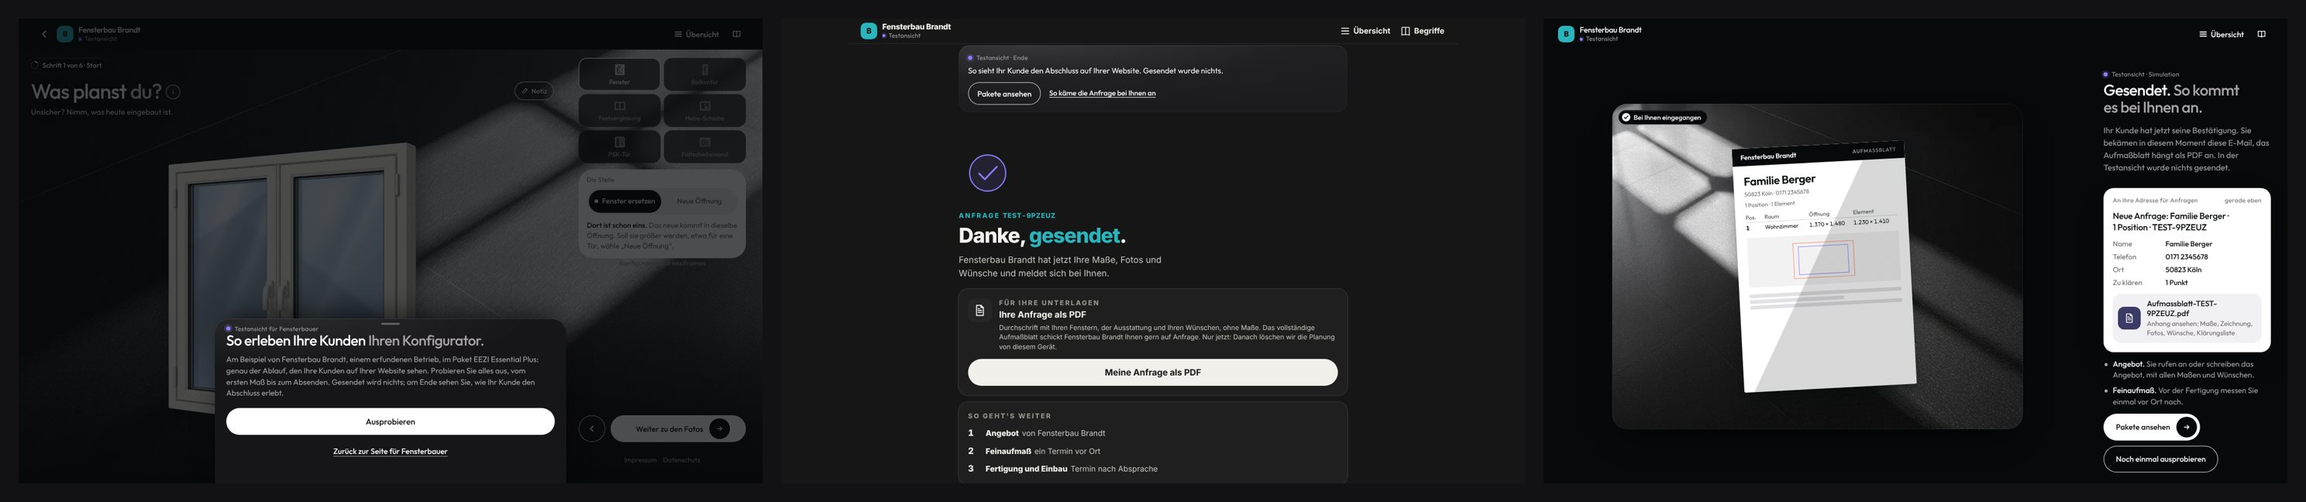
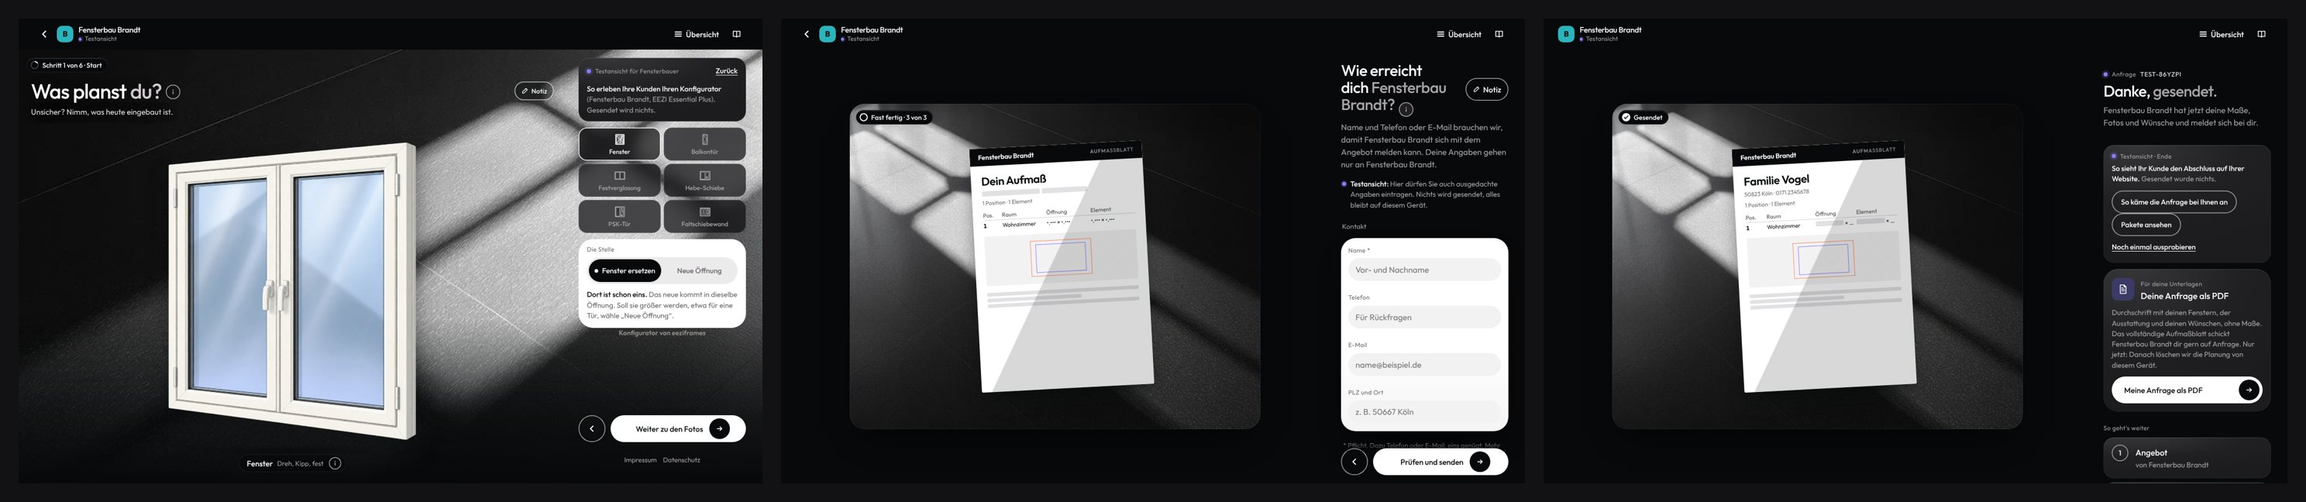
Kontakt und Prüfen der Instanz im neuen Design, Muss-Punkte des Gremiums
- Kontakt auf einer Instanz (instAnfrage3) im Rahmen der Abschluss-Folien:
  Blatt mit dem Namen des Betriebs, Pflichtfelder, Fehler am Feld (Inhaber:
  „Nimm das neue Design“); „Prüfen und senden“ geht auch auf Instanzen durch
  abRahmen
- Bestätigung: „Fertig“ am Ende statt angeheftet, Nummer einmal, Maße als
  ruhige Balken, „Jetzt von diesem Gerät löschen“ mit „… bleibt bestehen“,
  keine Station schon erledigt
- Testansicht: Infobereich kurz (Etikett mit „Zurück“, ein Satz), Anrede „du“
  wie die Folien, im Ende-Kasten zuerst die Ansicht des Betriebs
- Protokoll und Gremium unter docs/profis/, Regel „Ein Ablauf, ein Look“

Claude-Session: https://claude.ai/code/session_0184P5fGdniWcDaYecSm6W1G

diff --git a/web/assets/app.js b/web/assets/app.js
@@ -2442,14 +2442,15 @@ const STORE = 'aufmass.v1';
 /* Testansicht für Fensterbauer (/app/?ausprobieren[=<paket>]: „Selbst ausprobieren“ auf der Seite für Fensterbauer, „Fenster planen“ in
    den Paket-Beispielen): der Konfigurator so, wie ihn die Kunden eines Betriebs mit diesem Paket auf dessen Website erleben, am Beispiel
    des erfundenen Betriebs Fensterbau Brandt (wie die Beispiele der Seite), ganz im Browser. Merkmale aus pakete.js (ohne Angabe Plus),
-   Firmenfarbe Aquatürkis der Brandt-Palette, wo das Paket eine Farbe hat. Kein Aufruf an den Server der Instanzen (kein Code vom Server,
+   Firmenfarbe Aquatürkis der Brandt-Palette, wo das Paket eine Farbe hat; Anrede „du“ wie in den Folien (Gremium 28.10.2026: du und Sie
+   gemischt zeigt kein Fensterbauer seinem Kunden). Kein Aufruf an den Server der Instanzen (kein Code vom Server,
    kein Zwischenstand, keine Fotos hinauf), Senden ist eine Simulation (probeSenden). Auf einer echten Instanz (KONFIG.instanz vom
    Server) gibt es sie nicht. */
 const PROBE = (() => { try { return new URLSearchParams(location.search).has('ausprobieren'); } catch (e) { return false; } })() && !(window.KONFIG && window.KONFIG.instanz);
 const PROBE_PAKET = (() => { if (!PROBE) return ''; let p = ''; try { p = String(new URLSearchParams(location.search).get('ausprobieren') || '').toLowerCase(); } catch (e) { p = ''; } const P = window.Pakete; return P && P.gueltig(p) ? p : 'plus'; })();
 if (PROBE) {
   const P = window.Pakete, m = P ? P.oeffentlich(P.merkmale(PROBE_PAKET)) : { kopieKunde: true }, farbe = m.farbe ? '#2ab4bd' : '';
-  (window.KONFIG = window.KONFIG || {}).instanz = { id: 'muster01', v: 1, host: location.host, name: 'Fensterbau Brandt', du: false, status: 'aktiv', vorschau: false, demo: true, probe: true, m: m,
+  (window.KONFIG = window.KONFIG || {}).instanz = { id: 'muster01', v: 1, host: location.host, name: 'Fensterbau Brandt', du: true, status: 'aktiv', vorschau: false, demo: true, probe: true, m: m,
     auftritt: { logo: '', grund: 'dunkel', col: farbe, gruss: { sie: '', du: '' }, ap: 'Petra Brandt', foto: '', tel: '', mail: '', web: '', ort: '', tiefe: '', std: '' },
     start: { kicker: '', ueberschrift: '', text: '', bilder: [] }, farbe: farbe, akzent: farbe, kontakt: { tel: '', mail: '' }, logo: '', grenzen: { fenster: 50 } };
   /* Firmenfarbe wie auf der Seite einer Instanz (der Server setzt dort --accent im Kopf, functions/instanz/seiten.js) */
@@ -3926,8 +3927,8 @@ function anfrage2Dna() {
   return { html: lgKopf(['back', 'Zurück: Haus']) + dnaTisch(abZeitBuehne(pr, anfrageHead(2, lk)), frage + karte + abFuss('Zurück: Haus', weiter[0], weiter[1], weiter[2])), back: ['Haus', 'anfrage'], dna: true, cls: 'dna ab dt', voll: true };
 }
 /* Kontakt: das Aufmaßblatt als Objekt im Fensterlicht; was getippt wird, steht sofort oben auf dem Blatt (abLive), Maße als Punkte */
-function abPapier(offen, schloss, betrieb) { // betrieb: Name im Kopfband statt eeziframes (Testansicht: das Blatt, wie es beim Betrieb ankommt)
-  const pr = S.proj, n = S.windows.length, el = S.windows.reduce((a, x) => a + (num(x.anzahl) || 1), 0), pkt = (v) => (!v ? '•.•••' : offen ? thousand(v) : thousand(v).replace(/\d/g, '•'));
+function abPapier(offen, schloss, betrieb, balken) { // betrieb: Name im Kopfband statt eeziframes; balken: Maße als ruhige Balken (Bestätigung, Durchschrift ohne Maße)
+  const pr = S.proj, n = S.windows.length, el = S.windows.reduce((a, x) => a + (num(x.anzahl) || 1), 0), pkt = (v) => (balken ? '<i class="ab-leer" style="--b: 72%"></i>' : !v ? '•.•••' : offen ? thousand(v) : thousand(v).replace(/\d/g, '•'));
   const kontakt = [pr.ort, pr.tel, pr.mail].map((t) => String(t || '').trim()).filter(Boolean);
   return '<div class="ab-papier" aria-hidden="true"><div class="ab-papier-band">' + (betrieb ? '<span class="ab-papier-betrieb">' + esc(betrieb) + '</span>' : LOGO(10) + '<span class="ab-wm" translate="no"><b>eezi</b>frames</span>') + '<span class="ab-papier-art">Aufmaßblatt</span></div><div class="ab-papier-in">' +
     '<p class="ab-papier-h" data-p="name">' + esc(String(pr.name || '').trim() || 'Dein Aufmaß') + '</p>' +
@@ -4169,7 +4170,7 @@ function abSymBuehne(chip, extra) {
 const abBetrag = () => { const p = PREIS(); return p > 0 ? '<div class="ab-betrag" aria-hidden="true"><b>' + euro(p).replace(/\s*€$/, '') + '</b><small>€</small><span>einmalig' + (MWST() ? ', inkl. MwSt.' : '') + '</span></div>' : ''; };
 const abEtikett = (klein, wert) => '<div class="ab-etikett" aria-hidden="true"><span class="ab-etikett-punkt"></span><span><small>' + esc(klein) + '</small><b>' + esc(wert) + '</b></span></div>';
 function abRahmen(view, buehne) {
-  if (!view || view.dna || INST) return view;
+  if (!view || view.dna) return view; // seit 28.10.2026 auch auf Instanzen (Prüfen und senden; die Bestätigung ist schon eine Folie)
   const b = view.bar, back = view.back, zur = back ? 'Zurück: ' + back[0] : '';
   const pille = b ? '<button type="button" class="dna-pille lg-weiter btn ' + (b.ghost ? 'ghost dna-pille--leise' : 'primary') + '" data-act="' + b.act + '"' + (b.v ? ' data-v="' + b.v + '"' : '') + (b.dis ? ' disabled' : '') + '>' + b.label + (b.ghost ? '' : abPfeil) + '</button>' : '';
   const fuss = rechtLinks() + (b ? '<div class="lg-fuss' + (b.sec ? ' ab-fuss-zwei' : '') + '">' + (back ? '<button type="button" class="lg-zurueck" data-act="back" aria-label="' + esc(zur) + '">' + LG_PFEIL_L + '</button>' : '') + (b.sec ? '<button type="button" class="dna-pille dna-pille--leise ab-zweit" data-act="' + b.secAct + '">' + esc(b.sec) + '</button>' : '') + pille + '</div>' : '');
@@ -7711,15 +7712,18 @@ function kontaktFeld(label, field, ph, mode, auto, fehler, pflicht) {
   if (fehler === true) return '<div class="trow bad"><span>' + esc(label) + '</span><input type="' + (mode === 'email' ? 'email' : mode === 'tel' ? 'tel' : 'text') + '" id="' + id + '" inputmode="' + (mode || 'text') + '" autocomplete="' + auto + '" data-in="p" data-f="' + field + '" value="' + esc(v || '') + '" placeholder="' + esc(ph || '') + '" aria-invalid="true" aria-describedby="t-mail-f"></div>';
   return '<div class="trow' + (fehler ? ' bad' : '') + '"><span>' + esc(label) + (pflicht ? '<i class="pfl" aria-hidden="true"> *</i>' : '') + '</span><input type="' + (mode === 'email' ? 'email' : mode === 'tel' ? 'tel' : 'text') + '" id="' + id + '" inputmode="' + (mode || 'text') + '" autocomplete="' + auto + '" data-in="p" data-f="' + field + '" value="' + esc(v || '') + '" placeholder="' + esc(ph || '') + '"' + (fehler ? ' aria-invalid="true" aria-describedby="' + id + '-f"' : '') + (pflicht ? ' aria-required="true"' : '') + '>' + (fehler ? '<small class="trow-f" id="' + id + '-f">' + esc(fehler) + '</small>' : '') + '</div>';
 }
+/* Kontakt auf der Website einer Instanz im Look der Design-DNA (28.10.2026, Inhaber: „Das passt ja nicht überein. Nimm das neue Design“):
+   wie anfrage3Dna (Bühne mit dem Blatt, das sich beim Tippen füllt, Kopfband mit dem Namen des Betriebs), aber mit Pflicht: Name und
+   Telefon oder E-Mail (kontaktPruefen, Fehler am Feld), „Prüfen und senden“ (kontakt-weiter). Texte und Prüfung wie bisher */
 function instAnfrage3() {
   const pr = S.proj, d = lkDaten(), bn = d.name, C = window.KONFIG || {};
   const f = S.kontaktFehler ? Object.assign(kontaktPruefen(), { alle: true }) : {};
-  let html = hd(anfrageHead(3, true), anr('Wie erreicht Sie ', 'Wie erreicht dich ') + esc(bn) + '?', 'Name und Telefon oder E-Mail brauchen wir, damit ' + esc(bn) + ' sich mit dem Angebot melden kann. ' + anr('Ihre', 'Deine') + ' Angaben gehen nur an ' + esc(bn) + '; mehr dazu im <a class="ulink" href="' + esc(C.datenschutz || '/datenschutz/') + '" target="_blank" rel="noopener">Datenschutz</a>.', '', '', schrittTools('kontakt'));
-  if (PROBE) html += '<p class="probe-zeile" role="note"><span><b>Testansicht:</b> Hier dürfen Sie auch ausgedachte Angaben eintragen. Nichts wird gesendet, alles bleibt auf diesem Gerät.</span></p>';
-  html += '<div class="sec"><div class="rows kontakt-felder">' + kontaktFeld('Name', 'name', 'Vor- und Nachname', 'text', 'name', f.name, true) + kontaktFeld('Telefon', 'tel', 'Für Rückfragen', 'tel', 'tel', f.tel || !!f.weg, false) + kontaktFeld('E-Mail', 'mail', 'name@beispiel.de', 'email', 'email', f.mail || f.weg, false) + kontaktFeld('PLZ und Ort', 'ort', 'z. B. 50667 Köln', 'text', 'postal-code address-level2', '', false) + '</div>' +
-    '<p class="sub kontakt-hinweis">* Pflicht. Dazu Telefon oder E-Mail, eins genügt.</p></div>';
-  html += '<div class="sec">' + secHead('Wann am besten erreichbar?', null, 'Freiwillig.') + chips('erreich', pr.erreich, 'erreich', 'setp') + '</div>';
-  return { html: html, back: ['Zurück', 'anfrage2'], cls: 'tight', bar: { label: 'Prüfen und senden', act: 'kontakt-weiter', zurueck: true } };
+  const frage = lgFrage(anr('Wie erreicht Sie ', 'Wie erreicht dich ') + '<em>' + esc(bn) + '?</em>', 'kontakt', 'Name und Telefon oder E-Mail brauchen wir, damit ' + bn + ' sich mit dem Angebot melden kann. ' + anr('Ihre', 'Deine') + ' Angaben gehen nur an ' + bn + '.');
+  const probe = PROBE ? '<p class="probe-zeile" role="note"><span><b>Testansicht:</b> Hier dürfen Sie auch ausgedachte Angaben eintragen. Nichts wird gesendet, alles bleibt auf diesem Gerät.</span></p>' : '';
+  const karte = '<div class="qpanel ab-panel"><div class="ab-teil">' + abKopf('Kontakt') + '<div class="rows ab-felder kontakt-felder">' + kontaktFeld('Name', 'name', 'Vor- und Nachname', 'text', 'name', f.name, true) + kontaktFeld('Telefon', 'tel', 'Für Rückfragen', 'tel', 'tel', f.tel || !!f.weg, false) + kontaktFeld('E-Mail', 'mail', 'name@beispiel.de', 'email', 'email', f.mail || f.weg, false) +
+    kontaktFeld('PLZ und Ort', 'ort', 'z. B. 50667 Köln', 'text', 'postal-code address-level2', '', false) + '</div><p class="ab-pflicht">* Pflicht. Dazu Telefon oder E-Mail, eins genügt. Mehr im <a class="ulink" href="' + esc(C.datenschutz || '/datenschutz/') + '" target="_blank" rel="noopener">Datenschutz</a>.</p></div>' +
+    '<div class="ab-teil">' + abKopf('Am besten erreichbar · freiwillig') + chips('erreich', pr.erreich, 'erreich', 'setp') + '</div></div>';
+  return { html: lgKopf(['back', 'Zurück: Zeit und Budget']) + dnaTisch(abBuehne('ab-blatt', anfrageHead(3, true), abPapier(false, false, bn)), frage + probe + karte + abFuss('Zurück: Zeit und Budget', 'kontakt-weiter', '', 'Prüfen und senden')), back: ['Zurück', 'anfrage2'], dna: true, cls: 'dna ab dt', voll: true };
 }
 /* „Auf anderem Gerät weitermachen“: dieselbe Planung über https://<host>/#k-<code> */
 const instWeiterLink = () => location.origin + '/#k-' + (S.betrieb ? S.betrieb.code : '');
@@ -7742,10 +7746,9 @@ function probeEinstieg() {
 /* Infobereich der Testansicht in der Folie selbst: auf der ersten Folie („start“) und auf der Bestätigung („ende“) */
 function probeInfo(art) {
   if (!PROBE) return '';
-  const zurueck = '<a class="probe-info-link" href="' + PROBE_FB + '">Zurück zur Seite für Fensterbauer</a>';
   if (art === 'ende') return '<section class="probe-info" aria-label="Testansicht für Fensterbauer"><span class="dna-label">Testansicht · Ende</span><p><b>So sieht Ihr Kunde den Abschluss auf Ihrer Website.</b> Gesendet wurde nichts.</p>' +
-    '<div class="probe-info-knoepfe"><a class="dna-pille dna-pille--leise" href="' + PROBE_FB + '#pakete">Pakete ansehen</a><button type="button" class="probe-info-link" data-act="probe-betrieb">So käme die Anfrage bei Ihnen an</button><button type="button" class="probe-info-link" data-act="probe-neu">Noch einmal ausprobieren</button></div></section>';
-  return '<section class="probe-info" aria-label="Testansicht für Fensterbauer"><span class="dna-label">Testansicht für Fensterbauer</span><p><b>So erleben Ihre Kunden Ihren Konfigurator.</b> Am Beispiel von Fensterbau Brandt, einem erfundenen Betrieb, im Paket ' + esc(probePaketName()) + '. Probieren Sie alles aus bis zum Absenden; gesendet wird nichts.</p>' + zurueck + '</section>';
+    '<div class="probe-info-knoepfe"><button type="button" class="dna-pille dna-pille--leise" data-act="probe-betrieb">So käme die Anfrage bei Ihnen an</button><a class="dna-pille dna-pille--leise" href="' + PROBE_FB + '#pakete">Pakete ansehen</a><button type="button" class="probe-info-link" data-act="probe-neu">Noch einmal ausprobieren</button></div></section>';
+  return '<section class="probe-info kurz" aria-label="Testansicht für Fensterbauer"><div class="probe-info-zeile"><span class="dna-label">Testansicht für Fensterbauer</span><a class="probe-info-link" href="' + PROBE_FB + '" aria-label="Zurück zur Seite für Fensterbauer">Zurück</a></div><p><b>So erleben Ihre Kunden Ihren Konfigurator</b> (Fensterbau Brandt, ' + esc(probePaketName()) + '). Gesendet wird nichts.</p></section>';
 }
 /* Startseite einer Instanz in allen Zuständen (erste Seite, Liste, gesendet, Planung nicht mehr da, Nachbesserung einer Einladung) */
 function instHome() {
@@ -7851,7 +7854,7 @@ async function probeBlatt() {
 function instGesendet() {
   if (!S.sent || S.sent.kurz) return instHome();
   const d = lkDaten(), name = d.name, du = d.du, T = (sie, x) => (du ? x : sie), test = S.sent.art === 'test', p = d.p || {}, nr = S.sent.nr || '';
-  const buehne = abBuehne('ab-blatt gs-buehne', 'Gesendet', abPapier(false, false, name) + (nr ? abEtikett(test ? 'Testanfrage' : 'Anfrage', nr) : ''));
+  const buehne = abBuehne('ab-blatt gs-buehne', 'Gesendet', abPapier(false, false, name, true));
   const titel = '<div class="lg-frage gs-titel"><span class="dna-label">' + (test ? 'Testanfrage ' : 'Anfrage ') + '<span class="inst-nr-wert">' + esc(nr) + '</span></span><div class="lg-frage-kopf"><h1 tabindex="-1">Danke, <span class="ak">gesendet.</span></h1></div>' +
     '<p>' + esc(name) + T(' hat jetzt Ihre Maße, Fotos und Wünsche und meldet sich bei Ihnen.', ' hat jetzt deine Maße, Fotos und Wünsche und meldet sich bei dir.') + '</p></div>';
   const testNote = test ? '<p class="ab-note">Vorschau: Das war eine Testanfrage. Sie geht mit „[Test]“ im Betreff an den Betrieb, zählt nicht mit und ist nach einem Tag gelöscht.</p>' : '';
@@ -7867,10 +7870,10 @@ function instGesendet() {
   const kontakt = '<section class="gs-kontakt"><span class="dna-label">Fragen?</span><div class="gs-ap"><span class="gs-ap-bild" aria-hidden="true">' + esc(String(p.ap || name || '?').trim().charAt(0).toUpperCase()) + '</span><span><b>' + esc(p.ap || name) + '</b>' + (p.ap ? '<small>' + esc(name) + '</small>' : '') + '</span></div>' +
     (tel || mail ? '<div class="gs-k-reihe">' + (tel ? rund('tel:' + telH, IC_TEL, tel) : '') + (mail ? rund('mailto:' + mail, IC_MAIL, mail) : '') + '</div>' : '<p>' + esc(name) + T(' meldet sich nach Ihrer Anfrage bei Ihnen.', ' meldet sich nach deiner Anfrage bei dir.') + '</p>') + '</section>';
   const geraet = '<section class="gs-geraet"><span class="dna-label">Auf diesem Gerät</span><p>' + T('Sobald Sie diese Seite verlassen oder schließen, löschen wir Maße, Fotos und Kontaktdaten von diesem Gerät. Es bleiben nur Nummer und Datum Ihrer Anfrage.', 'Sobald du diese Seite verlässt oder schließt, löschen wir Maße, Fotos und Kontaktdaten von diesem Gerät. Es bleiben nur Nummer und Datum deiner Anfrage.') + '</p>' +
-    '<div class="gs-geraet-knoepfe"><button type="button" class="dna-pille dna-pille--leise" data-act="inst-weitere">Weitere Anfrage starten</button><button type="button" class="probe-info-link" data-act="inst-vergessen">Auf diesem Gerät vergessen</button></div></section>';
-  const fertig = PROBE ? '<a class="dna-pille dna-pille--leise lg-weiter" href="' + PROBE_FB + '">Fertig</a>' : '<button type="button" class="dna-pille dna-pille--leise lg-weiter" data-act="go" data-v="home">Fertig</button>';
+    '<div class="gs-geraet-knoepfe"><button type="button" class="dna-pille dna-pille--leise" data-act="inst-weitere">Weitere Anfrage starten</button><button type="button" class="probe-info-link" data-act="inst-vergessen">Jetzt von diesem Gerät löschen</button></div><p class="gs-bleibt">' + T('Ihre Anfrage bei ', 'Deine Anfrage bei ') + esc(name) + ' bleibt bestehen.</p></section>';
+  const fertig = PROBE ? '<a class="dna-pille dna-pille--leise" href="' + PROBE_FB + '">Fertig</a>' : '<button type="button" class="dna-pille dna-pille--leise" data-act="go" data-v="home">Fertig</button>';
   const inhalt = titel + testNote + probeInfo('ende') + pdf + weiter + kontakt + geraet;
-  return { html: lgKopf(false) + dnaTisch(buehne, '<div class="ab-inhalt">' + inhalt + '</div>' + rechtLinks() + '<div class="lg-fuss gs-fuss">' + fertig + '</div>'), dna: true, cls: 'dna ab ab2 dt gs', voll: true, bar: null };
+  return { html: lgKopf(false) + dnaTisch(buehne, '<div class="ab-inhalt">' + inhalt + '<div class="gs-fuss">' + fertig + '</div></div>' + rechtLinks()), dna: true, cls: 'dna ab ab2 dt gs', voll: true, bar: null };
 }
 /* Logo der Instanz fürs PDF: Bild von /marke/<v>/logo.png als Data-URL mit Maßen */
 async function logoFuerBlatt(url) {

diff --git a/web/assets/app.css b/web/assets/app.css
@@ -3087,6 +3087,9 @@ html.dna-voll .fb .qoffen[aria-pressed="true"] { box-shadow: inset 0 0 0 1.5px v
 .dna .probe-info-knoepfe { display: flex; flex-wrap: wrap; align-items: center; gap: 0 16px; padding: 6px 0 4px }
 .dna .probe-info-knoepfe .dna-pille, .dna.gs .gs-geraet-knoepfe .dna-pille { height: 44px; padding: 0 18px; font-size: 14px }
 .dna.dt .st-rechts > .probe-info { margin-bottom: 14px }
+.dna .probe-info.kurz { gap: 2px; padding: 4px 8px 12px 16px }
+.dna .probe-info-zeile { display: flex; align-items: center; justify-content: space-between; gap: 12px }
+.dna .probe-info.kurz .probe-info-link { padding: 0 8px }
 .dna.gs .ab-inhalt > .probe-info { margin: 4px 0 0 }
 /* Kontaktdaten (Seite der Instanz, noch im bisherigen Look): eine Zeile statt einer Karte */
 .probe-zeile { display: flex; align-items: baseline; gap: 8px; margin: 0 0 14px; padding: 0 6px; font: 400 15px/1.45 "Outfit", "Avenir Next", "Segoe UI", system-ui, sans-serif; color: #a8a4a9 }
@@ -3113,8 +3116,18 @@ html.dna-voll .fb .qoffen[aria-pressed="true"] { box-shadow: inset 0 0 0 1.5px v
 .dna.gs .gs-k-rund svg { width: 18px; height: 18px }
 .dna.gs .gs-geraet { display: grid; gap: 8px; margin-top: 12px; padding: 0 2px }
 .dna.gs .gs-geraet-knoepfe { display: flex; flex-wrap: wrap; align-items: center; gap: 4px 16px }
-.dna.gs .gs-fuss { justify-content: flex-start }
-.dna.gs .gs-fuss .lg-weiter { flex: 0 1 200px }
+.dna.gs .gs-fuss { display: flex; margin-top: 20px }
+.dna.gs .gs-fuss .dna-pille { flex: 1 }
+.dna.gs .gs-bleibt { font-size: 13px }
+.dna.gs .wl-station:first-child .wl-nr { color: var(--weiss); background: none; box-shadow: inset 0 0 0 1.5px var(--silbergrau) } /* nichts ist schon erledigt */
+/* Kontakt einer Instanz (instAnfrage3): Pflicht und Fehler am Feld */
+.dna .ab-felder .trow .pfl { font-style: normal; color: var(--textgrau) }
+.dna .ab-felder .trow.bad > span, .dna .ab-felder .trow.bad > span .pfl { color: #b5532f }
+.dna .ab-felder .trow.bad input { box-shadow: inset 0 0 0 2px var(--koralle) }
+.dna .ab-felder .trow-f { padding: 2px 14px 0; font: 500 13px/1.35 var(--font-sans); color: #b5532f }
+.dna .ab-pflicht { margin: 10px 4px 0; font: 400 13px/1.45 var(--font-sans); color: var(--silbergrau) }
+.dna .ab-pflicht .ulink { color: var(--weiss) }
+.dna .probe-zeile { padding: 0 2px; font-size: 14px }
 /* Ende: die E-Mail an den Betrieb (Weiß nur für diese eine Karte), Anhang als Zeile zum Antippen, danach der Weg zurück */
 .dna.probe-ende .lg-frage { display: grid; gap: 8px }
 .dna.probe-ende .lg-frage .dna-label { display: inline-flex; align-items: center; gap: 8px; font: 400 12px/1.3 var(--font-sans); letter-spacing: .03em; margin-bottom: -2px }

diff --git a/docs/profis/2026-10-28-testansicht.md b/docs/profis/2026-10-28-testansicht.md
@@ -1,0 +1,94 @@
+# Testansicht für Fensterbauer und „Danke, gesendet“ (28.10.2026)
+
+## Auftrag
+
+- Bereich: „Selbst ausprobieren“ auf eeziframes.com/fuer-fensterbauer und alle anderen Wege dorthin, die in den Editor führen.
+- Wunsch des Inhabers:
+  - Kein Einstieg in die Führung und kein Ende mit „an beliebig viele“. Stattdessen der Ablauf, wie ihn die Kunden eines Betriebs
+    mit gebuchtem Paket auf dessen Website erleben.
+  - Am Anfang ein Hinweis, dass man in der Testansicht ist: „einfach ein Infobereich in der ersten Folie“. Die Karte über der alten
+    Startseite fand er hässlich.
+  - Am Ende wird das Senden an Fensterbau Brandt simuliert.
+  - „Danke, gesendet“ überarbeiten.
+  - Kontakt im neuen Design („Das passt ja nicht überein. Nimm das neue Design“).
+- Ziel für den Nutzer: Der Fensterbauer merkt sofort, dass er testet, misst und wählt wie ein Kunde und sieht am Ende den Abschluss
+  seiner Kunden.
+- Woran man den Erfolg merkt:
+  - Kein Server-Aufruf außer dem Lesen der KI-Bereitschaft.
+  - „Testansicht“ auf jeder Folie.
+  - Die Bestätigung im Look der DNA.
+
+## Wahl
+
+- Einstieg über `/app/?ausprobieren[=essential|plus|signature]`. Beispielbetrieb ist Fensterbau Brandt aus den Paket-Beispielen,
+  die Merkmale kommen aus pakete.js, die Anrede ist „du“ wie in den Folien. Es geht gleich mit der Folie „Was planst du?“ los.
+- Hinweise stehen in der Folie selbst:
+  - Infobereich auf der ersten Folie
+  - „Testansicht“ im Kopf jeder Folie
+  - eine Zeile bei den Kontaktdaten
+  - Infobereich „Testansicht · Ende“ auf der Bestätigung
+- Kontakt (Instanz) und „Prüfen und senden“ (Instanz) im Rahmen der Abschluss-Folien. Die Bestätigung ist eine eigene DNA-Folie für
+  alle Instanzen.
+- Die Startseiten der Instanz und der Einladung sowie die Fensterliste der Instanz überarbeitet der Inhaber später („erst danach“).
+
+## Änderungstabelle
+
+| Wo | Was | Warum | Gremium | Stand |
+| --- | --- | --- | --- | --- |
+| Seite für Fensterbauer, Ratgeber, Paket-Beispiele | Alle Wege zum Ausprobieren führen auf `/app/?ausprobieren`, „Fenster planen“ in den Beispielen auf das jeweilige Paket | Verständnis | – | bleibt |
+| Erste Folie | Infobereich „Testansicht für Fensterbauer“ mit „Zurück“, kurz: ein Satz mit Betrieb und Paket | Verständnis | G 4:2 ändern (kürzen), F 5:1 ändern | geändert: eine Zeile Etikett mit „Zurück“, ein Satz |
+| Kopf jeder Folie | „● Testansicht“ unter dem Namen des Betriebs | Verständnis | G 6:0, F 6:0 behalten | bleibt |
+| Kontakt (Instanz) | Folie im Look der DNA: Blatt mit dem Namen des Betriebs, Pflichtfelder mit Fehler am Feld, Zeile „Testansicht“ | Marke, Wunsch des Inhabers | – | neu |
+| Prüfen und senden (Instanz) | Rahmen der Abschluss-Folien auch auf Instanzen | Marke | – | neu |
+| Bestätigung | Bühne mit dem Blatt (Maße als ruhige Balken), Chip „Gesendet“, Nummer einmal, „Danke, gesendet.“ | Marke, Vertrauen | G 4:2 behalten, K 5 ändern, F 4:2 behalten | geändert: Etikett mit Nummer weg, Balken statt Punkte |
+| Bestätigung | Durchschrift als PDF mit der einen vollen Pille, Stationen, Fragen, „Auf diesem Gerät“, „Fertig“ | Blickführung | G 4:2 ändern, K 6 ändern, F 5:1 behalten | geändert: „Fertig“ nicht mehr angeheftet, am Ende; „Jetzt von diesem Gerät löschen“ mit „Deine Anfrage bei … bleibt bestehen.“; Schritt 1 nicht gefüllt |
+| Bestätigung, Testansicht | Infobereich „Testansicht · Ende“: zuerst „So käme die Anfrage bei Ihnen an“, dann „Pakete ansehen“, „Noch einmal ausprobieren“; „Fertig“ führt zur Seite für Fensterbauer | Verkauf | G 5:1 behalten, F 4:2 behalten (Inhaber: Betriebsansicht zuerst) | geändert: Reihenfolge |
+| Testansicht | Anrede „du“ wie in den Folien | Seriosität | Veto F (Petra Lindqvist: du und Sie gemischt) | umgesetzt für die Testansicht |
+
+## Gremium (eine Runde, drei Agenten, blind X/Y)
+
+- **Gestalter:**
+  - Y gewinnt beide Folien 6:0, Median der Hand 4, keine Faust.
+  - Muss: Infobereich kürzen; „Fertig“ nicht angeheftet; Nummer nur einmal.
+- **Kunden:**
+  - Y gewinnt 4:2, Median 2,5.
+  - Faust von Gisela Pohl: Sie las „Familie Berger“ auf dem Blatt als fremden Namen. Das waren die Testdaten der Bilder; das Blatt zeigt
+    immer den eigenen Namen, die Bilder zeigen jetzt „Familie Vogel“, wie eingegeben.
+  - Muss: PDF vor „Fertig“; Löschsatz entschärfen; Schritt 1 nicht als erledigt zeigen.
+  - Offen: Zum Kontakt (Telefon und E-Mail) wollten sie einen echten Weg. In der Testansicht hat der erfundene Betrieb keine Nummer,
+    damit niemand einen echten Anschluss anruft; auf echten Instanzen stehen Telefon und E-Mail mit runden Knöpfen.
+- **Fensterbauer:**
+  - Y vor X, Median der Hand 4, „kaufen“ 3,5, „zeigen“ 3.
+  - Veto Seriosität (du und Sie gemischt): in der Testansicht gelöst.
+  - Muss: Infobereich kürzen; Betriebsansicht im Ende zuerst.
+  - Kann: Vorschaubild der E-Mail; Preis im Ende-Kasten (Preise nur aus pakete.js, nicht umgesetzt); Name im Kopf nicht abschneiden.
+
+Die Urteile stehen unter docs/profis/gremium/2026-10-28-testansicht.md.
+
+## Farbanteile (Telefon, gemessen mit werkzeuge/farben.py)
+
+| Bildschirm | Neutral % | Violett | Koralle | Indigo | Foto | Farbe gesamt |
+| --- | --- | --- | --- | --- | --- | --- |
+| Erste Folie | 90,0 | 0,0 | 0,0 | 0,0 | 10,0 (Fensterbild) | 10,0 |
+| Kontakt | 99,5 | 0,1 | 0,1 | 0,0 | 0,3 | 0,5 |
+| Prüfen | 99,5 | 0,0 | 0,0 | 0,0 | 0,5 | 0,5 |
+| Bestätigung | 99,0 | 0,1 | 0,1 | 0,5 | 0,3 | 1,0 |
+
+## Messwerte
+
+- Je Bildschirm eine volle Pille.
+- Kein Ziel unter 44 px.
+- Kein waagrechter Scroll bei 320, 390, 768 und 1440 px.
+- Keine Konsolenfehler.
+- In der Testansicht nur `GET /api/ki` an den Server.
+
+## Bilder
+
+- docs/profis/bilder/2026-10-28-testansicht-telefon.jpg (erste Folie, Kontakt, Prüfen, Bestätigung)
+- docs/profis/bilder/2026-10-28-testansicht-laptop.jpg
+- docs/profis/bilder/2026-10-28-danke-gesendet-telefon-ganz.jpg
+
+## Offen (Wort des Inhabers)
+
+- Startseiten (Einladung, Instanz) und die Fensterliste der Instanz im neuen Design.
+- Anrede auf echten Instanzen: Die Folien sagen „du“, Instanzen mit „Sie“ sprechen auf Kontakt und Bestätigung „Sie“.

diff --git a/docs/INSTANZEN.md b/docs/INSTANZEN.md
@@ -323,7 +323,9 @@ Signature: Die Mails an den Betrieb kommen vom neutralen Postfach `MAIL_ABSENDER
 Demo-Instanzen der Verkaufsseite: Custom Domains `demo-essential.eeziframes.com`, `demo-plus.eeziframes.com`, `demo-signature.eeziframes.com` am Worker, in der Zentrale je eine Instanz ohne Bestellung mit Schalter „Demo“ (Anfragen gehen an `MAIL_KONTAKT` und verschwinden nach `FRISTEN.testTage` Tag). Die Verkaufsseite verlinkt sie erst mit der Variable `PAKETE_DEMOS=1`, vorher führt „Konfigurator ausprobieren“ in die App.
 
 
-Testansicht für Fensterbauer (28.10.2026, Wunsch des Inhabers: jeder Weg zum Ausprobieren auf der Seite für Fensterbauer führt in einen Bereich, der erkennbar zum Testen da ist; am Ende der Abschluss, wie ihn der Kunde eines Betriebs mit gebuchtem Paket sieht): „Selbst ausprobieren“ auf der Seite für Fensterbauer und „Konfigurator ausprobieren“ in deren Ratgebern führen auf `/app/?ausprobieren` (Paket Plus), „Fenster planen“ in den drei Paket-Beispielen auf `/app/?ausprobieren=essential|plus|signature` (docs/profis/werkzeuge/paketvorlagen.py, `fuer_web`). Die App läuft dann im Instanz-Modus als Fensterbau Brandt, der erfundene Betrieb der Beispiele, mit den öffentlichen Merkmalen des Pakets aus pakete.js (die App lädt dafür /assets/pakete.js) und der Firmenfarbe Aquatürkis, wo das Paket eine Farbe hat (`PROBE`, `PROBE_PAKET` in web/assets/app.js setzen `KONFIG.instanz` vor `INST`), ohne Führung und ohne Kauf. Alles bleibt im Browser: kein `/api/status`, kein Code vom Server (`instanzStart` vergibt ihn auf dem Gerät), kein Zwischenstand, keine Fotos hinauf, KI ohne Code wie auf der Hauptdomain. Sie beginnt gleich auf der ersten Folie „Was planst du?“ (`probeEinstieg`; ein angefangenes Fenster wird fortgesetzt, ein abgeschlossener Test beginnt neu). Erkennbar ist die Testansicht am Infobereich in dieser Folie (`probeInfo('start')`: Beispielbetrieb, Paket, „gesendet wird nichts“, Weg zurück), an „Testansicht“ unter dem Namen im Kopf jeder Folie, an einer Zeile bei den Kontaktdaten und am Eintrag „Testansicht beenden“ in der Übersicht; Bogen und Karten über der Startseite des Betriebs gibt es nicht (Inhaber: „Diese Ansicht will ich nicht“). Senden ist eine Simulation (`probeSenden`, Nummer `TEST-…`); das Ende ist die Bestätigung, wie sie der Kunde sieht (`instGesendet`, seit 28.10.2026 im Look der Design-DNA für alle Instanzen), mit dem Infobereich „Testansicht · Ende“ unter der Überschrift („Pakete ansehen“, „So käme die Anfrage bei Ihnen an“: die E-Mail an den Betrieb mit dem Aufmaßblatt in der Variante `betrieb` als PDF, `probeBlatt`; „Noch einmal ausprobieren“); „Fertig“ führt dort zurück zur Seite für Fensterbauer. Auf einer echten Instanz (KONFIG.instanz vom Server) gibt es die Testansicht nicht.
+Testansicht für Fensterbauer (28.10.2026, Wunsch des Inhabers: jeder Weg zum Ausprobieren auf der Seite für Fensterbauer führt in einen Bereich, der erkennbar zum Testen da ist; am Ende der Abschluss, wie ihn der Kunde eines Betriebs mit gebuchtem Paket sieht): „Selbst ausprobieren“ auf der Seite für Fensterbauer und „Konfigurator ausprobieren“ in deren Ratgebern führen auf `/app/?ausprobieren` (Paket Plus), „Fenster planen“ in den drei Paket-Beispielen auf `/app/?ausprobieren=essential|plus|signature` (docs/profis/werkzeuge/paketvorlagen.py, `fuer_web`). Die App läuft dann im Instanz-Modus als Fensterbau Brandt, der erfundene Betrieb der Beispiele, in der Anrede „du“ wie die Folien, mit den öffentlichen Merkmalen des Pakets aus pakete.js (die App lädt dafür /assets/pakete.js) und der Firmenfarbe Aquatürkis, wo das Paket eine Farbe hat (`PROBE`, `PROBE_PAKET` in web/assets/app.js setzen `KONFIG.instanz` vor `INST`), ohne Führung und ohne Kauf. Alles bleibt im Browser: kein `/api/status`, kein Code vom Server (`instanzStart` vergibt ihn auf dem Gerät), kein Zwischenstand, keine Fotos hinauf, KI ohne Code wie auf der Hauptdomain. Sie beginnt gleich auf der ersten Folie „Was planst du?“ (`probeEinstieg`; ein angefangenes Fenster wird fortgesetzt, ein abgeschlossener Test beginnt neu). Erkennbar ist die Testansicht am Infobereich in dieser Folie (`probeInfo('start')`: Beispielbetrieb, Paket, „gesendet wird nichts“, Weg zurück), an „Testansicht“ unter dem Namen im Kopf jeder Folie, an einer Zeile auf der Folie mit den Kontaktdaten und am Eintrag „Testansicht beenden“ in der Übersicht; Bogen und Karten über der Startseite des Betriebs gibt es nicht (Inhaber: „Diese Ansicht will ich nicht“). Senden ist eine Simulation (`probeSenden`, Nummer `TEST-…`); das Ende ist die Bestätigung, wie sie der Kunde sieht (`instGesendet`, seit 28.10.2026 im Look der Design-DNA für alle Instanzen), mit dem Infobereich „Testansicht · Ende“ unter der Überschrift („Pakete ansehen“, „So käme die Anfrage bei Ihnen an“: die E-Mail an den Betrieb mit dem Aufmaßblatt in der Variante `betrieb` als PDF, `probeBlatt`; „Noch einmal ausprobieren“); „Fertig“ führt dort zurück zur Seite für Fensterbauer. Auf einer echten Instanz (KONFIG.instanz vom Server) gibt es die Testansicht nicht.
+
+Kontakt und „Prüfen und senden“ einer Instanz (28.10.2026, Inhaber: „Nimm das neue Design“): Die Folie mit den Kontaktdaten (`instAnfrage3`) steht im Rahmen der Abschluss-Folien wie der Kontakt im Kundenlink (Bühne mit dem Blatt und dem Namen des Betriebs im Kopfband), mit den Pflichtfeldern, den Fehlern am Feld (`kontaktPruefen`) und „Prüfen und senden“; „Prüfen und senden“ (`SCREENS.blatt`) geht auch auf Instanzen durch `abRahmen`. Die Bestätigung (`instGesendet`) ist eine eigene Folie im Look der Design-DNA (docs/GESTALTUNG.md). Startseite und Fensterliste einer Instanz sind noch im bisherigen Look (Überarbeitung folgt auf Wort des Inhabers).
 
 ### Zustände und was sie bedeuten
 

diff --git a/docs/profis/gremium/2026-10-28-testansicht.md b/docs/profis/gremium/2026-10-28-testansicht.md
@@ -1,0 +1,78 @@
+# Gremium: Testansicht für Fensterbauer und „Danke, gesendet“ (28.10.2026)
+
+Das Gremium ist simuliert: eine Runde, drei getrennte Agenten, blind X/Y. Echte Stimmen gab es nicht.
+
+Bilder:
+- erste Folie: X ohne Infobereich, Y mit Infobereich
+- Bestätigung: X bisher (Instanz, alter Look), Y im Look der DNA
+
+## Gestalter (Gruppe G)
+
+| Person | Hand | Kernsatz |
+| --- | --- | --- |
+| Jonas Veit | 4 | Das Blatt im Fensterlicht ist der stärkste Held, den der Abschluss je hatte. Am Telefon das Blatt ganz in die Bühne. |
+| Lena Hartwig | 3 | „Fertig“ klebt unten, die PDF („nur jetzt“) liegt darunter verdeckt. „Fertig“ gehört ans Ende. |
+| Noah Brandner | 4 | Vier Etiketten auf 350 px. Die Nummer nur einmal. |
+| Tobias Lenz | 3 | Am Telefon zeigt die erste Kachelreihe nur 40 px. Am Laptop liegt „Fertig“ über „Angebot“. |
+| Mara Keller | 4 | Der Rückweg und „Gesendet wird nichts“ schaffen Vertrauen. Sie wollte „Pakete ansehen“ als volle Pille; nicht übernommen, die Kundenansicht bleibt echt. |
+| Daniel Roth | 4 | Eine Familie mit der Startseite. Die Anrede bricht: du in den Folien, Sie in der Bestätigung. |
+
+- Ergebnis: Y 6:0, Median 4, keine Faust.
+- Änderungen:
+  - 1 ändern (kürzen)
+  - 2 behalten
+  - 3 behalten
+  - 4 ändern („Fertig“)
+  - 5 behalten
+
+## Kunden (Gruppe K)
+
+| Person | Hand | Kernsatz |
+| --- | --- | --- |
+| Renate Vogel | 2 | „gesendet“ in Grau lese ich schlecht. „Fertig“ ist der einzige große Knopf, die PDF sehe ich zu spät. |
+| Murat Demir | 3 | Angekommen, ich tippe „Fertig“. Die PDF hätte ich verpasst. |
+| Sabine Kraus | 3 | Punkte statt Maße: Habe ich etwas falsch gemacht? Ist mit „Auf diesem Gerät vergessen“ meine Anfrage weg? |
+| Thomas Berger | 3 | Die Nummer steht doppelt. Bei „Fragen?“ steht weder Telefon noch E-Mail. |
+| Gisela Pohl | Faust | Fremder Name auf dem Blatt (Testdaten „Familie Berger“). Steht dort mein Name, nehme ich die Faust zurück. |
+| Kai Hofmann | 2 | „Fertig“ angeheftet, Schritt 1 gefüllt, „vergessen“ lese ich als Zurückziehen. |
+
+- Ergebnis: Y 4:2.
+- Verstanden haben:
+  - angekommen: 6 von 6
+  - was als Nächstes kommt: 5 von 6
+  - was zu tun ist: 3 von 6 (vor dem Umbau)
+- Median 2,5.
+
+## Fensterbauer (Gruppe F)
+
+| Person | Hand | Kernsatz |
+| --- | --- | --- |
+| Klaus Brandt | 3 | Mich interessiert, was bei mir ankommt. Das gehört nach vorn. |
+| Sarah Kranich | 4 | Die Bestätigung ist Wow: Briefkopf des Betriebs auf dem Blatt. Der Name im Kopf ist abgeschnitten. |
+| Deniz Yilmaz | 4 | Drei Sätze am Start, dann weiß ich Bescheid. |
+| Tobias Reuter | 4 | Punkte an der Stelle der Maße sehen aus wie ein Ladefehler. Lieber ruhige Balken. |
+| Michael Sonntag | 4 | Am Küchentisch soll der Kunde keinen Text für Fensterbauer lesen. |
+| Petra Lindqvist | 3 | Veto Seriosität: du und Sie gemischt zeige ich keinem Kunden. |
+
+- Median: Hand 4, „kaufen“ 3,5, „zeigen“ 3.
+- Änderungen:
+  - 1 ändern
+  - 2 bis 4 behalten
+  - 5 behalten (beide Inhaber: Betriebsansicht zuerst)
+
+## Umgesetzt (Muss-Punkte und Vetos)
+
+1. Infobereich am Start auf eine Etikettzeile mit „Zurück“ und einen Satz gekürzt. Die erste Kachelreihe steht am Telefon ganz über der
+   Fußleiste.
+2. „Fertig“ steht nicht mehr angeheftet, sondern am Ende der Bestätigung. Die PDF kommt davor, und am Laptop liegt nichts mehr über den
+   Karten.
+3. Die Nummer steht nur einmal (das Etikett auf der Bühne ist weg). Die Maße auf dem Blatt sind ruhige Balken.
+4. „Jetzt von diesem Gerät löschen“ mit dem Satz „Deine Anfrage bei … bleibt bestehen.“. Schritt 1 wird nicht mehr als erledigt gefüllt.
+5. Im Ende-Kasten zuerst „So käme die Anfrage bei Ihnen an“, dann „Pakete ansehen“.
+6. Die Testansicht spricht „du“ wie die Folien (Veto F).
+
+## Nicht übernommen, mit Grund
+
+- Ein „×“ zum Schließen des Infobereichs: Der Inhaber will einen Infobereich in der Folie, keinen Bogen.
+- Der Preis im Ende-Kasten: Preise stehen nur in pakete.js; „Pakete ansehen“ führt dorthin.
+- Ein Telefon für den erfundenen Betrieb: Es soll niemand eine echte Nummer anrufen.

diff --git a/docs/GESTALTUNG.md b/docs/GESTALTUNG.md
@@ -590,7 +590,11 @@ Wünsche (`frageDna`), Schritt 1 „Was planst du?“ (`startDna`) und Schritt 2
     Durchschrift), Chip „Gesendet“, Etikett mit der Nummer. Rechts Nummer mit violettem Punkt, „Danke, gesendet.“ mit zweiter Stimme,
     wer sich meldet; die Durchschrift als PDF auf einer Anthrazit-Fläche mit der einen vollen Pille (nur jetzt zu haben), die drei
     Stationen, „Fragen?“ mit Ansprechpartner und runden Knöpfen für Telefon und E-Mail, „Auf diesem Gerät“ mit „Weitere Anfrage starten“
-    (Umriss) und „Auf diesem Gerät vergessen“, unten „Fertig“ als Umriss-Pille. Inhalt und Aktionen wie bisher.
+    (Umriss) und „Jetzt von diesem Gerät löschen“ mit „Deine Anfrage bei … bleibt bestehen.“, am Ende der Folie „Fertig“ als
+    Umriss-Pille (nicht angeheftet, damit die Durchschrift vor dem Ausgang steht). Die Nummer steht einmal, die Maße auf dem Blatt
+    sind ruhige Balken, keine Station ist schon erledigt. Inhalt und Aktionen wie bisher. Gremium: docs/profis/2026-10-28-testansicht.md.
+  - Kontakt und „Prüfen und senden“ einer Instanz (28.10.2026, Inhaber: „Das passt ja nicht überein. Nimm das neue Design“): im Rahmen
+    der Abschluss-Folien wie im Kundenlink; Pflichtfelder mit Stern, Fehler am Feld mit Ring und Text im dunklen Ton der Koralle.
   - Restliche Folien (Wunsch des Inhabers, 28.10.2026: „Die anderen Bereiche machst du auch. Musst selber gucken, welche Folien da noch
     fehlen.“): „Deine Fenster“ (Bühne mit den Fenstern als Strichzeichnungen, Stand mit Balken, Karten auf Anthrazit), „Fürs Angebot“
     1–3 (Haus mit Kapselreihe der getauschten Fenster, Zeitleiste und Budget, Aufmaßblatt, das sich beim Tippen füllt), Aufmaßblatt,

diff --git a/.claude/skills/design-dna-eeziframes/SKILL.md b/.claude/skills/design-dna-eeziframes/SKILL.md
@@ -200,6 +200,9 @@ Diese Werte haben die Tiefe gebracht, die der Inhaber an seinen Vorlagen schätz
   Regel: Ein Hinweis, der für eine ganze Ansicht gilt, steht als Fläche in der Folie selbst (Anthrazit mit Lichtkante, Etikett mit
   violettem Punkt, ein Satz, ein Weg), nicht als Bogen oder Karte vor dem Inhalt und nicht auf noch nicht überarbeiteten Seiten.
   Vorschlag für seine DNA: in Abschnitt 9 „Hinweise als Fläche in der Folie, nie als Schicht davor“.
+- Ein Ablauf, ein Look (Korrektur des Inhabers, 28.10.2026, Kontakt auf einer Instanz neben der neuen Bestätigung: „Das passt ja nicht
+  überein. Nimm das neue Design“): Was der Kunde in einem Zug durchläuft, steht ganz im neuen Look, auch auf Instanzen. Wird eine
+  Folie neu, werden ihre Nachbarn im selben Ablauf mitgezogen oder ausdrücklich als offen genannt.
 - Jede weitere Korrektur des Inhabers wird hier eingetragen und als Vorschlag für seine DNA genannt (Abschnitt 7 der DNA).
 
 ## 5. Rezept je Seite (so entstand die Startseite, etwa drei Stunden)
